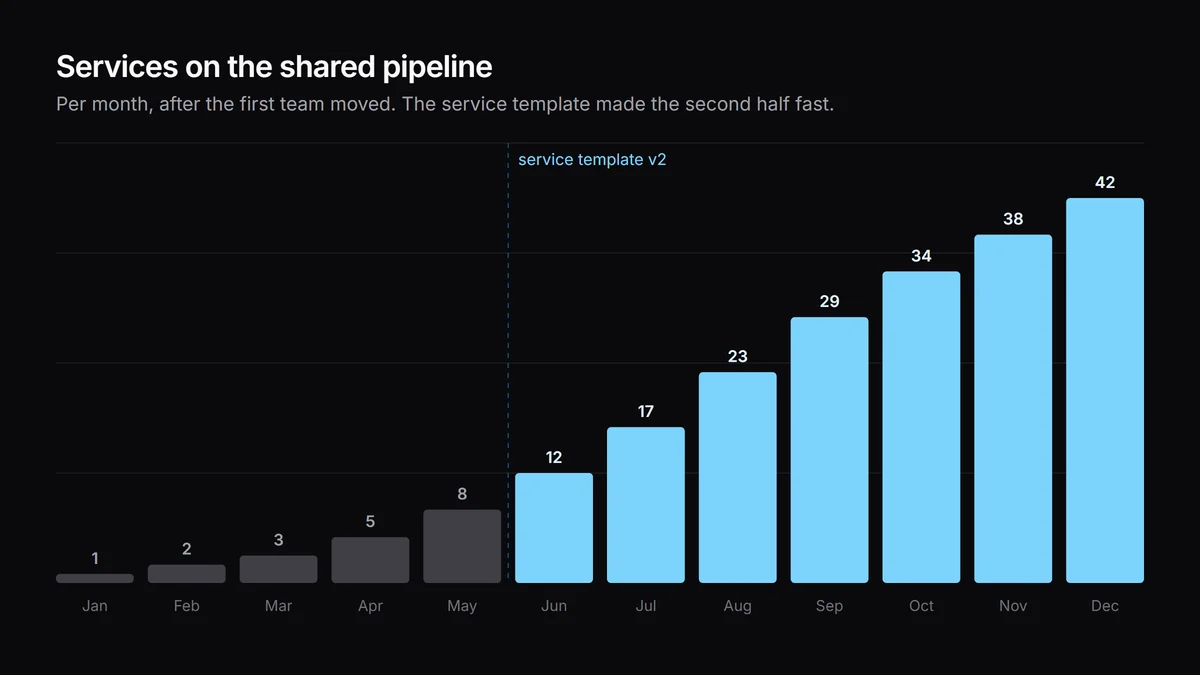
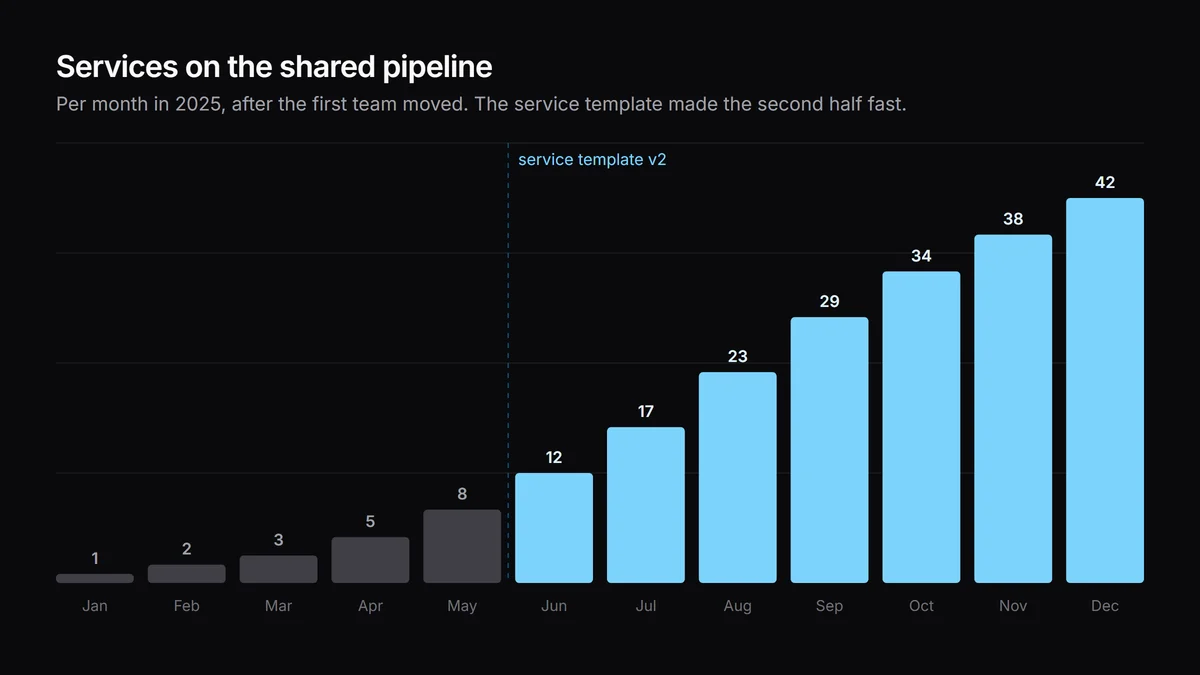
fix: keep the example pipeline timeline and covers consistent with the posts

Changed region(s): [[0.1233, 0.1244, 0.74, 0.1867]]

diff --git a/content/posts/one-pipeline-forty-services.md b/content/posts/one-pipeline-forty-services.md
@@ -7,7 +7,7 @@ projects: [shipline]
 cover: /images/demo/blog/one-pipeline-forty-services.jpg
 ---
 
-A year ago, Northwind had three ways to ship code. A bash script that only two people understood, a Jenkins job with forty parameters, and "ask Priya". Today 42 services deploy through one pipeline: build, test, canary, promote. Nobody was told to move. This is what I think made the difference.
+At the start of 2025, Northwind had three ways to ship code. A bash script that only two people understood, a Jenkins job with forty parameters, and "ask Priya". By the end of the year, 42 services deployed through one pipeline: build, test, canary, promote. Nobody was told to move. This is what I think made the difference.
 
 > [!TLDR]
 > Make the first deploy take ten minutes. Copy the old scripts' good ideas. Publish the numbers every week, and let teams move when they are ready.
@@ -38,7 +38,7 @@ Every Monday a bot posted three numbers for every team: deploys last week, media
 
 We never wrote a mandate. The chart did the persuading.
 
-![Bar chart of services on the shared pipeline by month, rising from 1 in January to 42 in December](/images/demo/blog/pipeline-adoption.webp "Adoption by month. The service template in June made moving a single pull request.")
+![Bar chart of services on the shared pipeline by month in 2025, rising from 1 in January to 42 in December](/images/demo/blog/pipeline-adoption.webp "Adoption by month in 2025. The service template in June made moving a single pull request.")
 
 The jump in the middle of the year is the service template. Before it, moving meant editing your Dockerfile, your health checks and your alerts. After it, a new service started on the pipeline, and an old one moved in one pull request.
 
@@ -50,4 +50,4 @@ The jump in the middle of the year is the service template. Before it, moving me
 
 ## Where it is now
 
-The pipeline runs a few hundred deploys a week. The next post covers the part people ask about most: [how the canary works without a service mesh](/blog/canary-deploys-without-a-mesh).
+The pipeline runs a few hundred deploys a week. An earlier post covers the part people ask about most: [how the canary works without a service mesh](/blog/canary-deploys-without-a-mesh).
